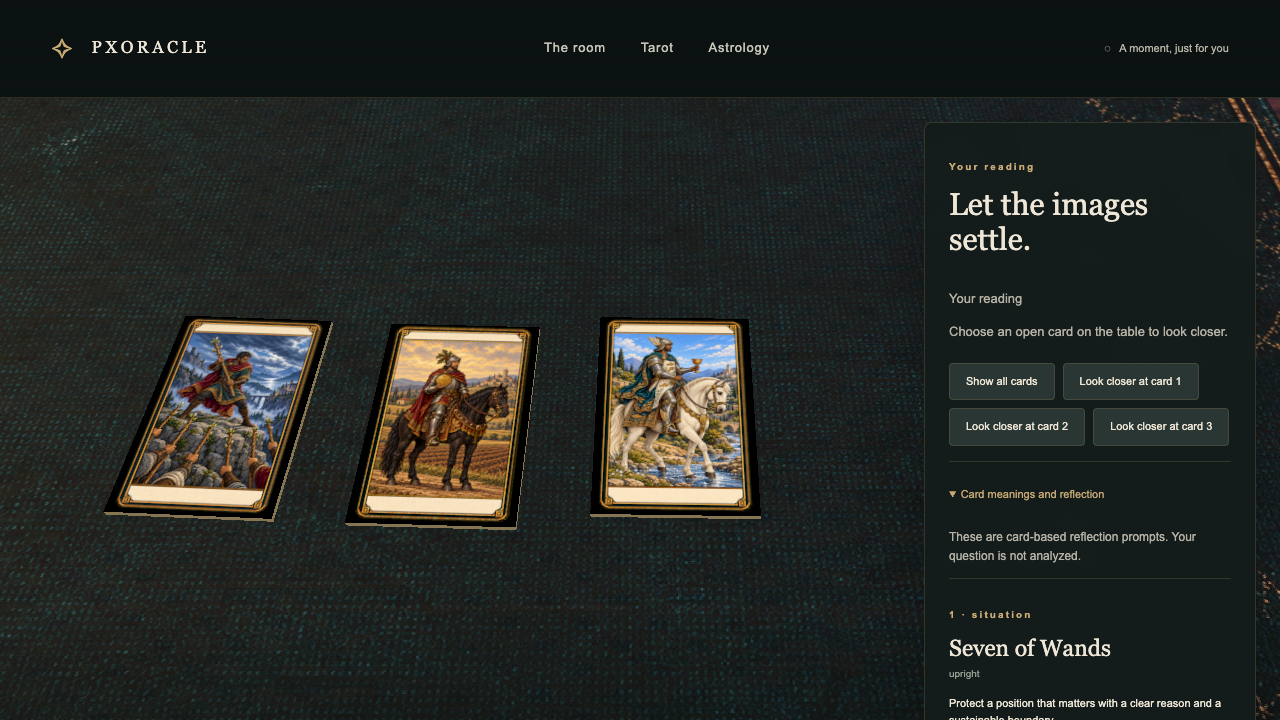
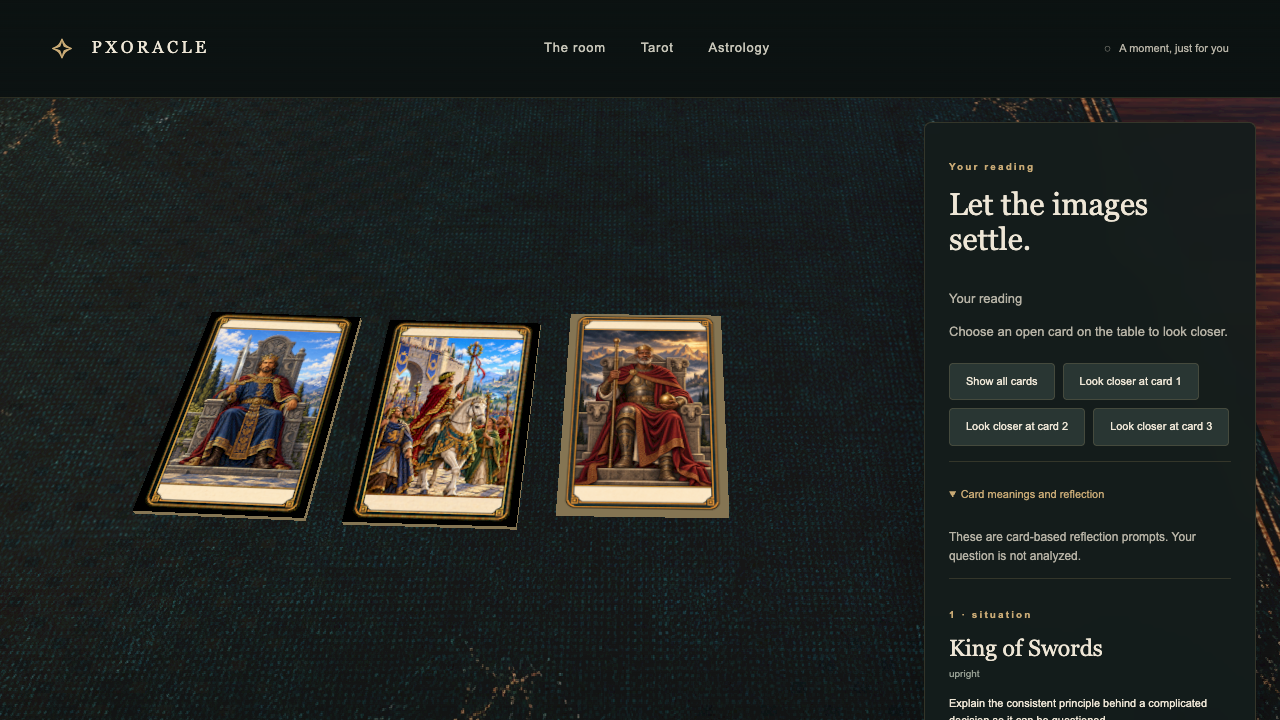
fix: tighten tarot spacing and add a grounded cloth mat

diff --git a/packages/scenes/src/tarot.ts b/packages/scenes/src/tarot.ts
@@ -15,6 +15,8 @@ import {
   CARD_GRIP_Y,
   MAT_WIDTH,
   MAT_DEPTH,
+  MAT_CENTER_Y,
+  MAT_TOP,
   slotPosition,
   spreadPosition,
   readingPlacement,
@@ -197,10 +199,10 @@ export const createScene: SceneFactory = async (leases, signal) => {
     const walnut = await acquire("/art/hand-mesh/table-reference-albedo.png");
     const wood = surfaceMaterial("wood", walnut, owner),
       trim = surfaceMaterial("wood", walnut, owner);
-    trim.color.set(0xe0bc93);
-    wood.color.setRGB(0.62, 0.72, 0.82);
+    trim.color.setRGB(0.42, 0.40, 0.43);
+    wood.color.setRGB(0.40, 0.46, 0.55);
     wood.normalScale.setScalar(0.22);
-    wood.roughness = 0.82;
+    wood.roughness = 0.94;
 
     function box(
       name: string,
@@ -230,6 +232,18 @@ export const createScene: SceneFactory = async (leases, signal) => {
       for (const y of [-3.4, 3.4])
         box("table-leg", [0.45, 0.45, 3.35], [x, y, -2.0], wood);
     }
+    // A thin rounded cloth volume provides an actual edge and contact shadow.
+    const matEdgeMaterial = surfaceMaterial("cloth", surface, owner);
+    matEdgeMaterial.color.set(0x343a36);
+    const matBodyGeometry = new RoundedBoxGeometry(
+      MAT_WIDTH - 0.40, MAT_DEPTH - 0.32, MAT_TOP - 0.003, 3, 0.018,
+    );
+    geometries.push(matBodyGeometry);
+    const matBody = new THREE.Mesh(matBodyGeometry, matEdgeMaterial);
+    matBody.name = "reading-mat-body";
+    matBody.position.set(0, MAT_CENTER_Y, (MAT_TOP - 0.003) / 2);
+    matBody.castShadow = matBody.receiveShadow = true;
+    table.add(matBody);
     const mat = plane(MAT_WIDTH, MAT_DEPTH, surface);
     const matMaterial = surfaceMaterial("cloth", surface, owner);
     matMaterial.color.set(0xffffff);
@@ -241,10 +255,11 @@ export const createScene: SceneFactory = async (leases, signal) => {
     >;
     matMesh.material = matMaterial;
     mat.name = "reading-mat";
-    mat.position.z = 0.035;
+    mat.position.set(0, MAT_CENTER_Y, MAT_TOP);
     mat.material.depthWrite = true;
     mat.renderOrder = 0;
     mat.receiveShadow = true;
+    mat.castShadow = true;
     table.add(mat);
     const floorMaterial = surfaceMaterial(
       "wood",
@@ -252,7 +267,8 @@ export const createScene: SceneFactory = async (leases, signal) => {
       owner,
     );
     floorMaterial.normalScale.setScalar(0.18);
-    floorMaterial.roughness = 0.7;
+    floorMaterial.roughness = 0.92;
+    floorMaterial.color.setRGB(0.52, 0.58, 0.70);
     for (const texture of [
       floorMaterial.map,
       floorMaterial.normalMap,
@@ -274,8 +290,8 @@ export const createScene: SceneFactory = async (leases, signal) => {
       pixelMaterial(0x171919, owner),
       base.scene,
     );
-    const ambient = new THREE.HemisphereLight(0xd2cfdf, 0x171324, 0.9);
-    const warm = new THREE.DirectionalLight(0xffdeb7, 1.5);
+    const ambient = new THREE.HemisphereLight(0xd2cfdf, 0x171324, 0.7);
+    const warm = new THREE.DirectionalLight(0xffdeb7, 1.25);
     warm.position.set(-10, 12, 7);
     warm.target.position.set(-3, -1, 0);
     warm.castShadow = true;
@@ -289,12 +305,12 @@ export const createScene: SceneFactory = async (leases, signal) => {
       far: 45,
     });
     warm.shadow.bias = -0.0003;
-    warm.shadow.normalBias = 0.025;
+    warm.shadow.normalBias = 0.008;
     releases.push(() => warm.shadow.dispose());
     base.scene.add(warm.target);
     const rim = new THREE.DirectionalLight(0x777acb, 0.7);
     rim.position.set(8, 5, -4);
-    const deskGlow = new THREE.PointLight(0xffb978, 70, 23, 2);
+    const deskGlow = new THREE.PointLight(0xffb978, 42, 23, 2);
     deskGlow.position.set(-8, 3.8, 1.5);
     const windowGlow = new THREE.PointLight(0x7585bf, 28, 25, 2);
     windowGlow.position.set(5, 4, -5);

diff --git a/packages/scenes/src/tarot-layout.ts b/packages/scenes/src/tarot-layout.ts
@@ -5,25 +5,32 @@ export const CARD_WIDTH = 0.94 * 0.75;
 export const CARD_HEIGHT = 1.42 * 0.75;
 export const CARD_THICKNESS = 0.028 * 0.75;
 export const CARD_GRIP_Y = 0.6 * 0.75;
-export const SPREAD_GAP = 1.0;
-export const MAT_WIDTH = 9.4;
-export const MAT_DEPTH = 6.0;
+export const SPREAD_GAP = CARD_WIDTH + (1.0 - CARD_WIDTH) / 2;
+export const MAT_WIDTH = 7.4;
+export const MAT_DEPTH = 5.4;
+// Preserve the edge nearest the character while bringing the front edge inward.
+export const MAT_REAR = 3.0;
+export const MAT_CENTER_Y = MAT_REAR - MAT_DEPTH / 2;
+export const MAT_TOP = 0.045;
 
 export function slotPosition(slot: number, page: number, mobile: boolean) {
   const n = slot - page * 12,
     columns = mobile ? 4 : 6;
   return new THREE.Vector3(
-    ((n % columns) - (columns - 1) / 2) * (mobile ? 1.1 : 1.15),
-    (mobile ? 1.91 : 1.5) - Math.floor(n / columns) * (mobile ? 1.18 : 1.25),
-    0.045,
+    ((n % columns) - (columns - 1) / 2) *
+      (CARD_WIDTH + ((mobile ? 1.1 : 1.15) - CARD_WIDTH) / 2),
+    (mobile ? 1.91 : 1.5) -
+      Math.floor(n / columns) *
+        (CARD_HEIGHT + ((mobile ? 1.18 : 1.25) - CARD_HEIGHT) / 2),
+    MAT_TOP + 0.025,
   );
 }
 
 export function spreadPosition(index: number, count: number, mobile: boolean) {
   return new THREE.Vector3(
     (index - (count - 1) / 2) * SPREAD_GAP,
-    mobile ? -1.55 : -1.3,
-    0.06,
+    -1.3,
+    MAT_TOP + 0.035,
   );
 }
 

diff --git a/tests/storybook/fixed-frames.spec.ts b/tests/storybook/fixed-frames.spec.ts
@@ -1,6 +1,6 @@
 import { test, expect } from "@playwright/test";
 import { mkdirSync } from "node:fs";
-test("review four fixed stage compositions on desktop and mobile", async ({
+test("review stage and detail compositions on desktop and mobile", async ({
   page,
 }) => {
   const errors: string[] = [];
@@ -12,7 +12,7 @@ test("review four fixed stage compositions on desktop and mobile", async ({
     await page.setViewportSize(
       mobile ? { width: 390, height: 700 } : { width: 1100, height: 800 },
     );
-    for (const shot of ["shuffle", "selection", "reveal", "reading"]) {
+    for (const shot of ["shuffle", "selection", "reveal", "reading", "detail"]) {
       await page.goto(
         `/iframe.html?id=pxoracle-tarot-table--frame-${shot}&viewMode=story`,
       );

diff --git a/packages/scenes/src/tarot-camera.ts b/packages/scenes/src/tarot-camera.ts
@@ -71,8 +71,8 @@ export const REVIEW_SHOTS = {
     elevation: 58,
     mobileElevation: 65,
     target: [0, 0.2, 0.08],
-    width: 4.6,
-    mobileWidth: 2.4,
+    width: 3.85,
+    mobileWidth: 2.05,
   },
   reveal: {
     elevation: 48,
@@ -85,12 +85,12 @@ export const REVIEW_SHOTS = {
     elevation: 55,
     mobileElevation: 60,
     target: [0, -0.35, 0.08],
-    width: 2.0,
-    mobileWidth: 1.85,
+    width: 1.8,
+    mobileWidth: 1.65,
   },
   detail: {
-    elevation: 55,
-    mobileElevation: 60,
+    elevation: 72,
+    mobileElevation: 75,
     target: [0, -0.35, 0.08],
     width: 0.85,
     mobileWidth: 0.85,

diff --git a/docs/assets/tarot-table.md b/docs/assets/tarot-table.md
@@ -20,7 +20,7 @@ Skin and cloth have generated albedo textures applied through UVs. Hand topology
 
 ## Table and cards
 
-Table origin is (−3, −1, 1); local XY is rotated −90° about X. The 14 × 8.4 top, apron and four legs are one object composition in conversation and close shots. The mat measures 9.4 × 6.0 at height .035; the 80 × 80 wooden floor continues underneath. The room billboard supplies only its wall section, removing the painted-floor conflict.
+Table origin is (−3, −1, 1); local XY is rotated −90° about X. The 14 × 8.4 top, apron and four legs are one object composition in conversation and close shots. The mat measures 7.4 × 5.4 at height .045, with its rear edge fixed at local Y=3 and a rounded cloth volume beneath; the 80 × 80 wooden floor continues underneath. The room billboard supplies only its wall section, removing the painted-floor conflict.
 
 The dedicated transparent `hand-mesh/reading-mat.png` supplies the complete mat including all four stitched edges; its UVs use the whole image. The earlier table-image crop is no longer loaded. Separate albedos derived from the original `room.webp` floor and `table.webp` tabletop cover the continuous floor and rounded desk. Floor UVs repeat six times across 80 units; the desk uses one complete tile. Runtime roughness and subtle grain normals retain warm/cool lighting without blurring the source pixel texture. `back.png` is shared by all card backs. Only twelve anonymous slots and up to three confirmed cards are rendered. Selected faces are requested individually before reveal, with same-card retry. A card attaches to the acting hand anchor on pickup and returns to the table with world-preserving ownership. Card face flip and reversed in-plane rotation are separate. Reveal lift accounts for the card's scaled half-width, keeping its turning edge above the mat. Shuffle lifts the supported deck, moves a packet and lowers it before the fan opens. Reveal rolls a card toward its balance point, releases the grip, then lets the card settle; the wrist no longer follows a full 180-degree turn. Pickup/place takes 2.4 seconds and reveal takes 2.6 seconds, allowing the hands to retreat behind the selectable cards without abrupt joint motion.
 
@@ -42,10 +42,12 @@ See [validation evidence](../validation/tarot-table-v2/README.md). Browser emula
 
 ## Card size and mobile clearance
 
-Cards are 0.705 × 1.065 world units, exactly 75% of the previous 0.94 × 1.42 size. Their physical size is constant in every phase; selected cards no longer grow during reading. Camera distance provides magnification. The mobile four-column, three-row fan fits inside the smaller mat with a rear-edge margin. Projected card bounds are checked at 390 × 540 and 390 × 590, including a minimum 44-pixel target in each axis. Idle hands retreat behind the fan. Approved camera elevations remain unchanged; shuffle and selection distances are closer, with reading/detail framing adjusted to the smaller spread.
+Cards are 0.705 × 1.065 world units, exactly 75% of the previous 0.94 × 1.42 size. Their physical size is constant in every phase; selected cards no longer grow during reading. Camera distance provides magnification. The mobile four-column, three-row fan fits inside the smaller mat with a rear-edge margin. Projected card bounds are checked at 390 × 540 and 390 × 590, including a minimum 44-pixel target in each axis. Idle hands retreat behind the fan. The four stage elevations remain unchanged; detail rises to 72°/75°; shuffle and selection distances are closer, with reading/detail framing adjusted to the smaller spread.
 
 ## Shoulder, cuff and reading interaction revision
 
 The portrait's frontal/elevated shoulder landmarks interpolate with the same view mix as the artwork, then transform through the torso and table matrices into rig attachments. Both arms consume these anchors instead of retaining fixed shoulder positions. A cloth-covered elbow overlaps a closed, forearm-aligned rolled cuff so bending cannot expose an open sleeve mouth. The support hand follows a smaller coordinated path while the packet hand makes the larger movement around the table center.
 
 Revealed cards have a 1.0-unit center spacing and deterministic placement variation, at most 0.048 radians and 0.045 units. The selected slot/index determines the small variation; no engine randomness or private question enters rendering. Restoring a reading preserves it. One-card and three-card camera framing use different extents. Desktop framing reserves the actual 380-pixel reading-panel region. A raycast hit on an exposed face emits `inspect` with its selected slot; the DOM controller maps it to `readingFocus` without an engine mutation. Hover never starts a camera move. Equivalent DOM buttons and a return-to-overview control remain available.
+
+The spacing follow-up halves the empty horizontal and vertical gaps between fan cards, rather than halving center distances and overlapping them. Reading gaps also halve. Mat resizing preserves the rear edge nearest the character. A rounded cloth body casts contact shadows beneath the complete alpha-tested artwork; card resting heights clear its .045 surface. Darker, rougher wood and restrained warm fill bring the desk/floor closer to the painted room lighting.

diff --git a/docs/decisions/003-tarot-perspective-rig.md b/docs/decisions/003-tarot-perspective-rig.md
@@ -6,10 +6,12 @@ The user rejected flat hand/arm sprites, mirrored anatomy, stretched sleeves and
 
 This supersedes ADR 002's combined hand image, orthographic/phase framing and sleeve extension details. Rust, controller, minimal Scene DTO, Zustand, DOM and asynchronous ownership boundaries in ADR 002 remain in force. All assets are local, lazy with the tarot Scene, with source/license and cleanup recorded.
 
-A single three-dimensional table, mat and floor remain anchored through the sequence. Approved desktop elevations are 43° shuffle, 58° selection, 48° reveal, 55° reading. Mobile uses 47°, 65°, 52°, 60°. A 36° PerspectiveCamera settles before shuffle, widens with the fan, locks during selection, approaches the active reveal and frames the reading. Detail framing is user initiated. Reduced motion and restore reach the equivalent settled view without long movement. Canvas bounds remain stable across phases.
+A single three-dimensional table, mat and floor remain anchored through the sequence. Approved desktop elevations are 43° shuffle, 58° selection, 48° reveal, 55° reading. Mobile uses 47°, 65°, 52°, 60°. A 36° PerspectiveCamera settles before shuffle, widens with the fan, locks during selection, approaches the active reveal and frames the reading. Detail framing is user initiated and rises to 72° on desktop or 75° on mobile. Reduced motion and restore reach the equivalent settled view without long movement. Canvas bounds remain stable across phases.
 
 The painted torso plus mesh limbs is a hybrid 2.5D character, not a full-body anatomical sculpt. Tiling skin/cloth maps supply material detail without claiming a bespoke knuckle/nail atlas. Choreography uses controlled paths rather than physics, and changes no engine result.
 
 See [rig and Scene contract](../assets/tarot-table.md), [asset provenance](../../apps/web/public/art/hand-mesh/PROVENANCE.md), and [validation](../validation/tarot-table-v2/README.md).
 
-The subsequent 2026-10-11 size review reduced card geometry to 75% (0.705 × 1.065) and the mat to 9.4 × 6.0. Physical cards no longer grow between stages. Closer shuffle/selection distances and smaller reading/detail framing provide magnification without changing approved elevations. Mobile fan and waiting spread positions remain inside the mat; automated projected-bound checks retain 44-pixel touch targets.
+The subsequent 2026-10-11 size review reduced card geometry to 75% (0.705 × 1.065) and the mat to 7.4 × 5.4. Physical cards no longer grow between stages. Closer shuffle/selection distances and smaller reading/detail framing provide magnification without changing approved elevations. Mobile fan and waiting spread positions remain inside the mat; automated projected-bound checks retain 44-pixel touch targets.
+
+The spacing follow-up halves the empty horizontal and vertical gaps between fan cards, rather than halving center distances and overlapping them. Reading gaps also halve. Mat resizing preserves the rear edge nearest the character. A rounded cloth body casts contact shadows beneath the complete alpha-tested artwork; card resting heights clear its .045 surface. Darker, rougher wood and restrained warm fill bring the desk/floor closer to the painted room lighting.

diff --git a/docs/validation/tarot-table-v2/README.md b/docs/validation/tarot-table-v2/README.md
@@ -10,6 +10,12 @@ This revision replaces the sprite hands from [the earlier implementation](../tar
 - Only limb meshes are pixelated through a depth-tested mask. Face, room, wood, mat and cards render at display resolution. Cleanup covers all three targets, mask materials, geometry, shadow maps, GLB skeletons and texture leases.
 - Approved phase cameras settle for shuffle and selection, follow the reveal, then frame all reading cards. Exposed card Mesh clicks/taps and equivalent DOM controls offer a focused card view and return to overview; mobile descriptions collapse below the canvas.
 
+## Spacing and surface follow-up
+
+The card-to-card empty gaps are now 50% of their former horizontal/vertical spacing. The mat is 7.4 × 5.4, with its character-side edge fixed at local Y=3; a thin rounded cloth body casts shadows below the complete artwork. Tests check the anchored edge, physical thickness, card clearance and mobile touch bounds. Selection/reading cameras move closer; card detail rises from 55°/60° to 72°/75° on desktop/mobile. Table/floor albedo multipliers, roughness and warm fill are subdued to match the dim painted room. The follow-up reran 35 Node tests, 14 focused Scene/rig checks, typecheck, static export, Storybook build and ownership-boundary checks successfully. All six real static-app desktop/mobile browser checks pass again. Twelve tarot/fixed-frame Storybook checks also pass; the full 15-test result below belongs to the preceding revision. After the final mat-edge inset, the stage/detail-frame and animated hand browser checks were rerun: both pass, and their screenshots are refreshed.
+
+[Desktop detail](frames/desktop-detail.png) · [Mobile detail](frames/mobile-detail.png)
+
 ## Checks
 
 - `cargo test --locked`: 11 pass, plus doc tests.
